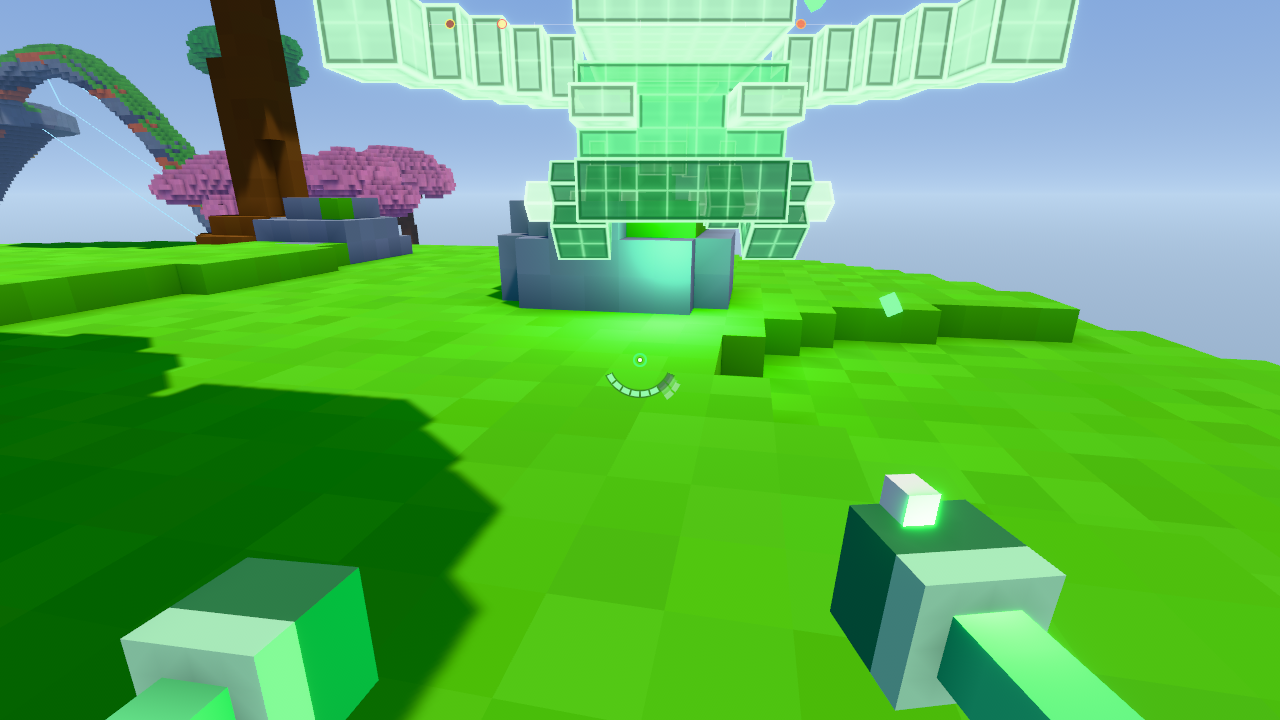
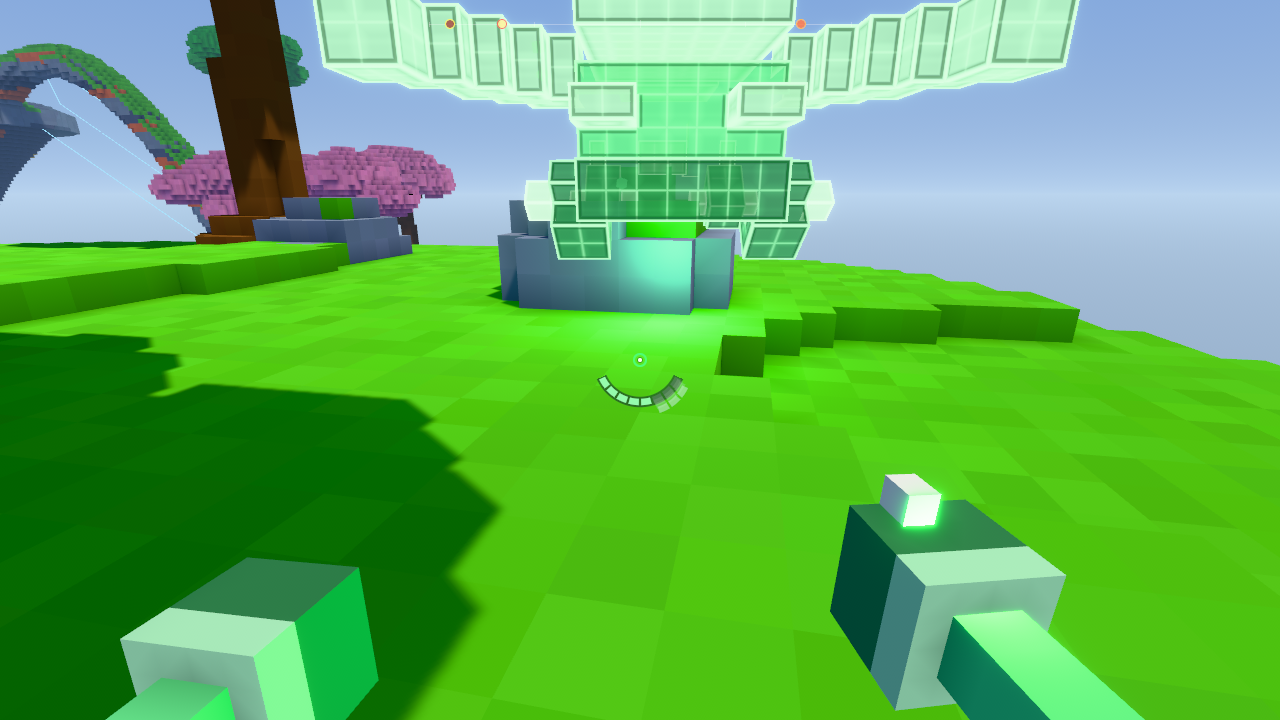
SPARKS: gauge centring fix + recaptured readability shots (cost model landed in aa4f879)

diff --git a/crates/bd_game/src/power_hud/gauge.rs b/crates/bd_game/src/power_hud/gauge.rs
@@ -108,12 +108,13 @@ fn draw(
     let scale = windows.iter().next().map_or(1.0, |w| (w.height() / 1080.0).max(t.min_scale));
     let (r, th) = ((t.radius_px * scale).round(), (t.thickness_px * scale).max(2.0));
     let side = 2.0 * (r + th + MARGIN * scale).round();
+    let margin = UiRect { left: px(-side * 0.5), top: px(-side * 0.5), ..default() };
     if let Ok(mut n) = nodes.get_mut(g.node)
-        && n.width != px(side)
+        && (n.width != px(side) || n.margin != margin)
     {
         n.width = px(side);
         n.height = px(side);
-        n.margin = UiRect { left: px(-side * 0.5), top: px(-side * 0.5), ..default() };
+        n.margin = margin;
     }
     let corps = active.as_ref().and_then(|a| a.local_player()).map_or([0.3, 1.0, 0.45], |p| p.corps.color());
     let col = super::derive::vivid(corps);
